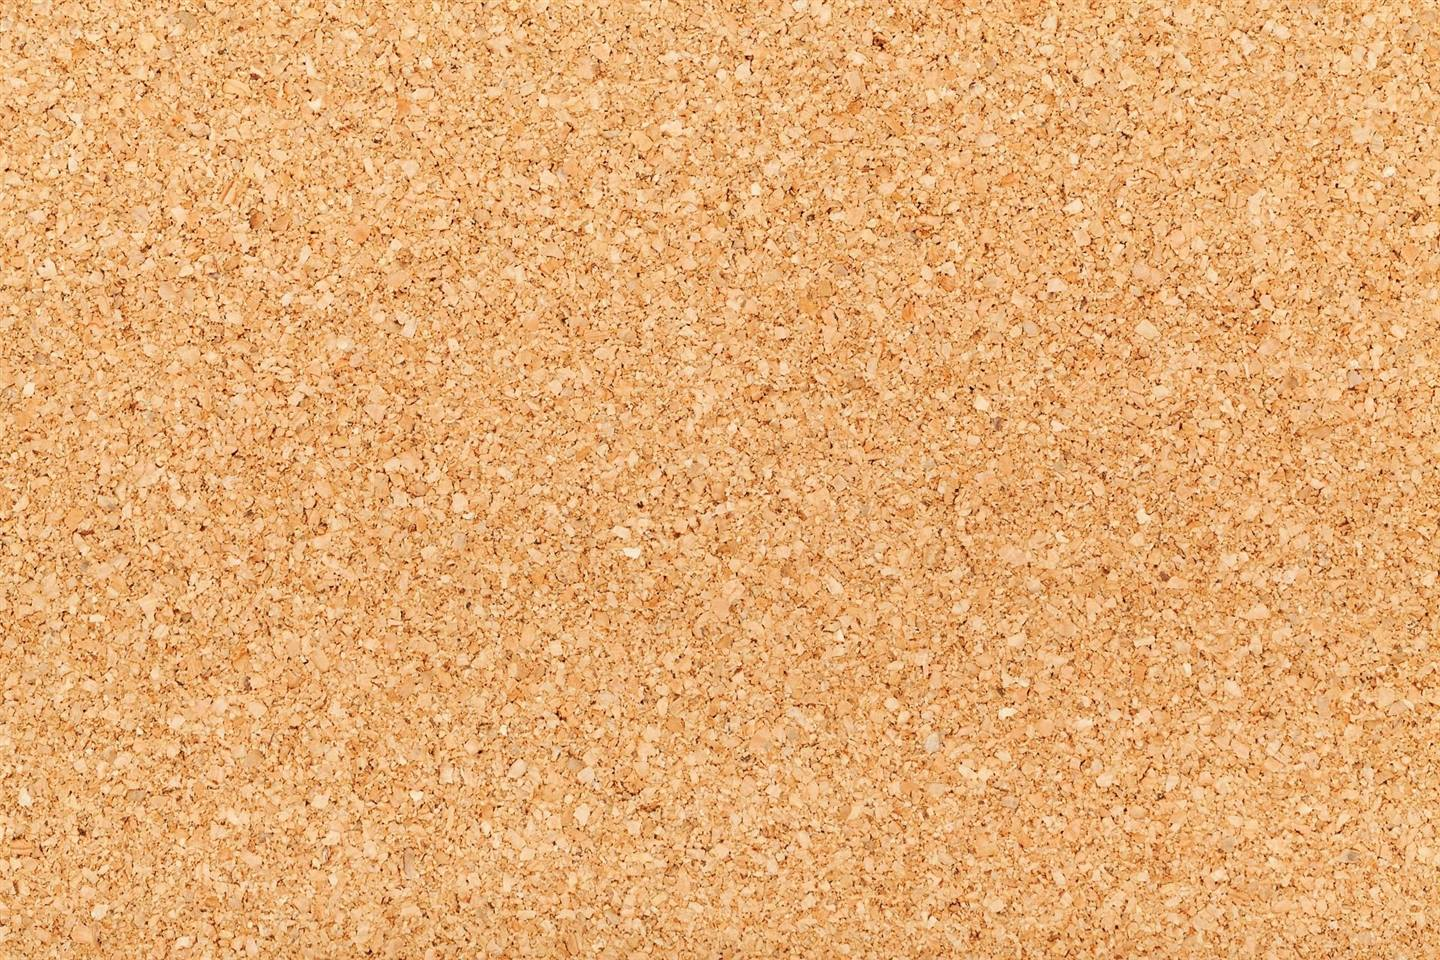
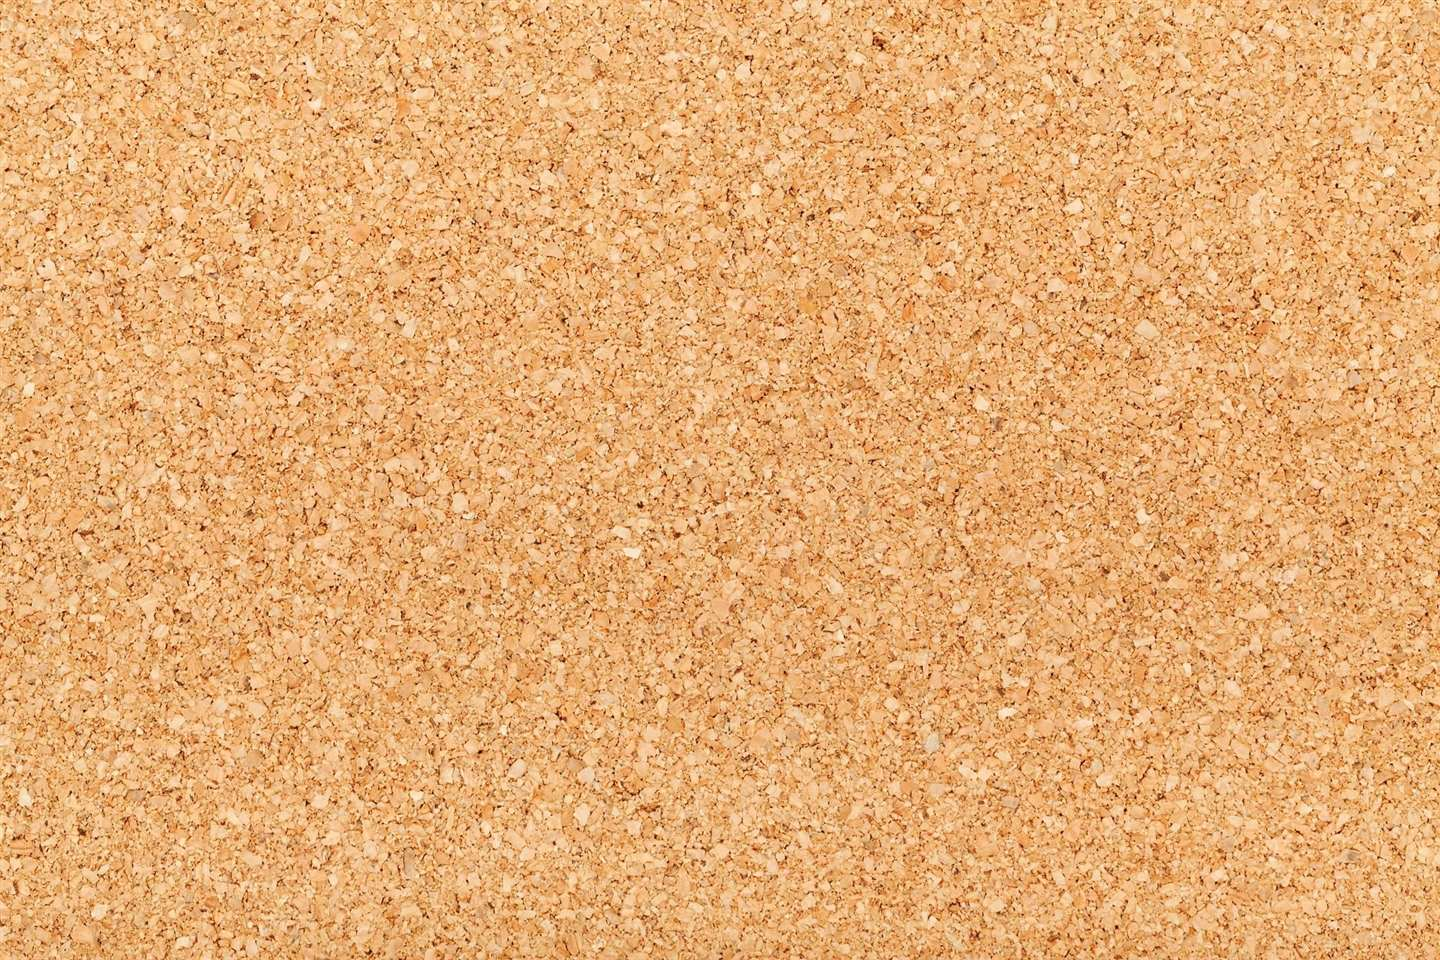
Add cork board placeholder image and update background styling for improved design

diff --git a/index.html b/index.html
@@ -65,7 +65,7 @@
         <li><span class="icon icon-pencil" aria-hidden="true"></span> <strong>Editar</strong> — hacé clic dentro de cualquier nota y escribí</li>
         <li><span class="icon icon-thumbtack" aria-hidden="true"></span> <strong>Eliminar</strong> — hacé clic en la chinche de la nota</li>
         <li><span class="icon icon-palette" aria-hidden="true"></span> <strong>Cambiar color</strong> — pasá el mouse sobre la nota y elegí un color</li>
-        <li><span class="icon icon-move" aria-hidden="true"></span> <strong>Mover</strong> — arrastrá las notas para reordenarlas</li>
+        <li><span class="icon icon-move" aria-hidden="true"></span> <strong>Mover</strong> — en celular, arrastrá desde el ícono de agarre</li>
         <li><span class="icon icon-floppy-disk" aria-hidden="true"></span> <strong>Guardado automático</strong> — tus notas se guardan en el navegador</li>
         <li><span class="icon icon-trash" aria-hidden="true"></span> <strong>Limpiar todo</strong> — eliminá todas las notas (pide confirmación)</li>
       </ul>

diff --git a/style.css b/style.css
@@ -102,7 +102,7 @@ html {
   scroll-behavior: smooth;
   min-height: 100%;
   background-color: #9b6f43;
-  background-image: var(--board-bg);
+  background-image: var(--board-bg), url("./images/cork-board-placeholder.jpg");
   background-repeat: no-repeat;
   background-position: center center;
   background-size: cover;
@@ -123,7 +123,7 @@ body::before {
   content: '';
   position: fixed;
   inset: 0;
-  background-image: var(--board-bg);
+  background-image: var(--board-bg), url("./images/cork-board-placeholder.jpg");
   background-repeat: no-repeat;
   background-position: center center;
   background-size: cover;

diff --git a/script.js b/script.js
@@ -194,7 +194,7 @@ class NoteManager {
     const handle = document.createElement("div");
     handle.classList.add("drag-handle");
     handle.setAttribute("aria-hidden", "true");
-    handle.title = "Mover nota";
+    handle.title = "Arrastrar para mover nota";
     // El handle no debe iniciar el drag de mouse (ese funciona desde toda la nota)
     handle.addEventListener("mousedown", (e) => e.stopPropagation());
     return handle;
